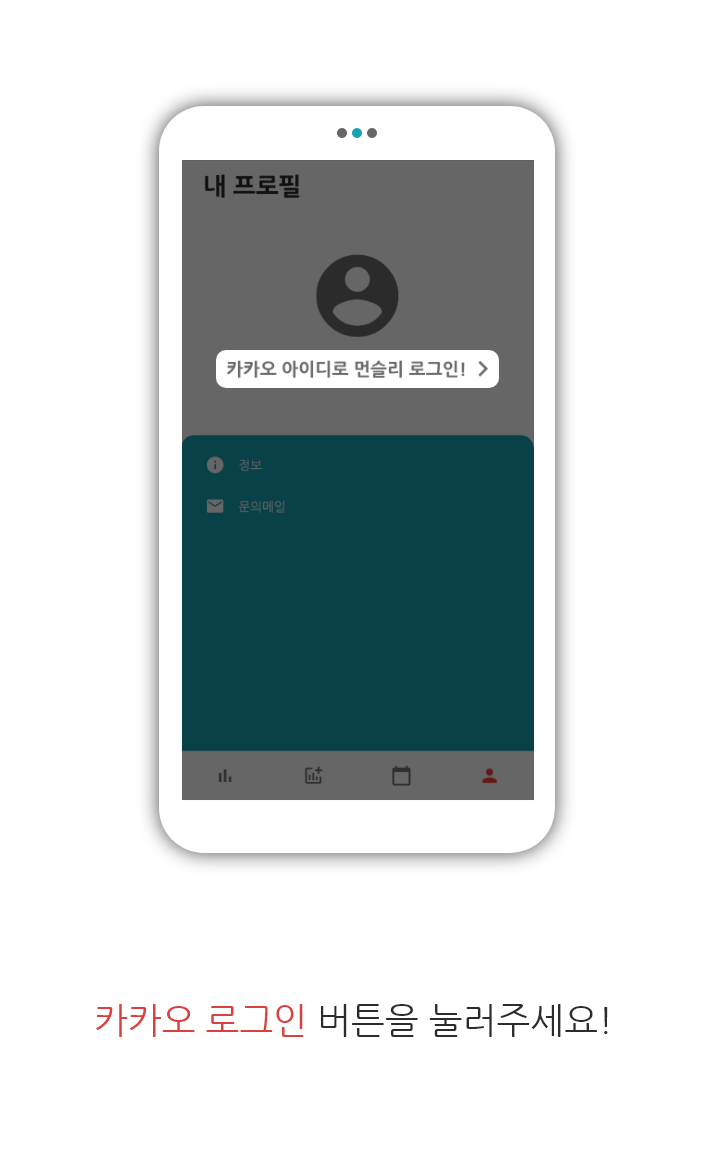
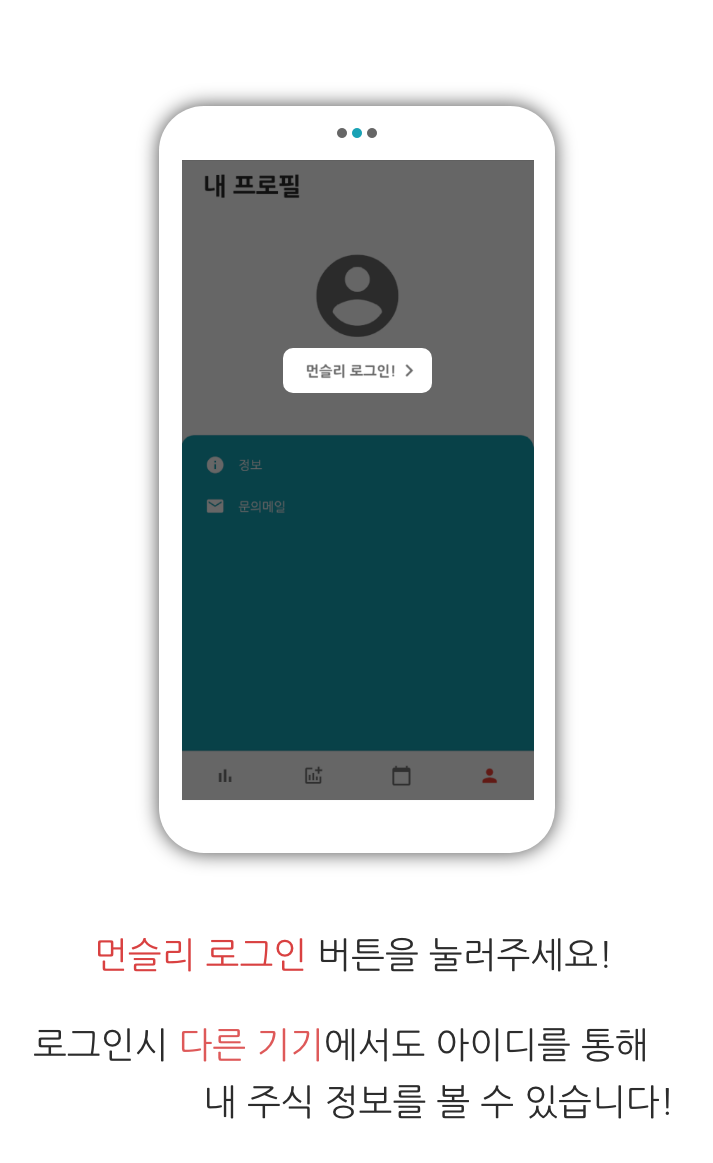
[1.0.4] Hot fix: change Apple login png file in apple.com, add ripple effect in the button, Fix help img in login(delete kakao login img, change text in kaka2.png )

diff --git a/monthly/lib/screens/profile.dart b/monthly/lib/screens/profile.dart
@@ -276,29 +276,52 @@ class _ProfileState extends State<Profile> {
                                     content: SingleChildScrollView(
                                       child: Column(
                                         children: [
-                                          InkWell(
-                                              onTap: () {
-                                                Navigator.of(bContext).pop();
+                                          Stack(
+                                            children: <Widget>[
+                                              Image.asset(
+                                                  'images/kakao_login_medium_narrow.png'),
+                                              Positioned.fill(
+                                                child: Material(
+                                                  color: Colors.transparent,
+                                                  child: InkWell(
+                                                    onTap: () {
+                                                      Navigator.of(bContext)
+                                                          .pop();
 
-                                                _isKakao
-                                                    ? _loginInstalled()
-                                                    : _loginUninstalled();
-                                              },
-                                              child: Image.asset(
-                                                  'images/kakao_login_medium_narrow.png')),
+                                                      _isKakao
+                                                          ? _loginInstalled()
+                                                          : _loginUninstalled();
+                                                    },
+                                                  ),
+                                                ),
+                                              ),
+                                            ],
+                                          ),
                                           SizedBox(
                                             height: 20,
                                           ),
                                           Platform.isIOS
-                                              ? InkWell(
-                                                  onTap: () {
-                                                    Navigator.of(bContext)
-                                                        .pop();
+                                              ? Stack(
+                                                  children: <Widget>[
+                                                    Image.asset(
+                                                        'images/apple_login.png'),
+                                                    Positioned.fill(
+                                                      child: Material(
+                                                        color:
+                                                            Colors.transparent,
+                                                        child: InkWell(
+                                                          onTap: () {
+                                                            Navigator.of(
+                                                                    bContext)
+                                                                .pop();
 
-                                                    _appleLogin();
-                                                  },
-                                                  child: Image.asset(
-                                                      'images/apple_login.png'))
+                                                            _appleLogin();
+                                                          },
+                                                        ),
+                                                      ),
+                                                    ),
+                                                  ],
+                                                )
                                               : SizedBox(
                                                   height: 10,
                                                 ),

diff --git a/monthly/lib/screens/dash_boards.dart b/monthly/lib/screens/dash_boards.dart
@@ -311,7 +311,7 @@ class _DashBoardsState extends State<DashBoards> {
                         MaterialPageRoute(
                             builder: (context) => DashBoardsHelp(
                                   type: "kakao",
-                                  len: 3,
+                                  len: 2,
                                 )),
                       );
                       break;

diff --git a/monthly/lib/screens/dash_boards_help.dart b/monthly/lib/screens/dash_boards_help.dart
@@ -90,7 +90,7 @@ class _DashBoardsHelpState extends State<DashBoardsHelp> {
                     break;
                   case "kakao":
                     type = "kakao";
-                    len = 3;
+                    len = 2;
                     title = "도움말(데이터 백업)";
                     break;
                   default:
